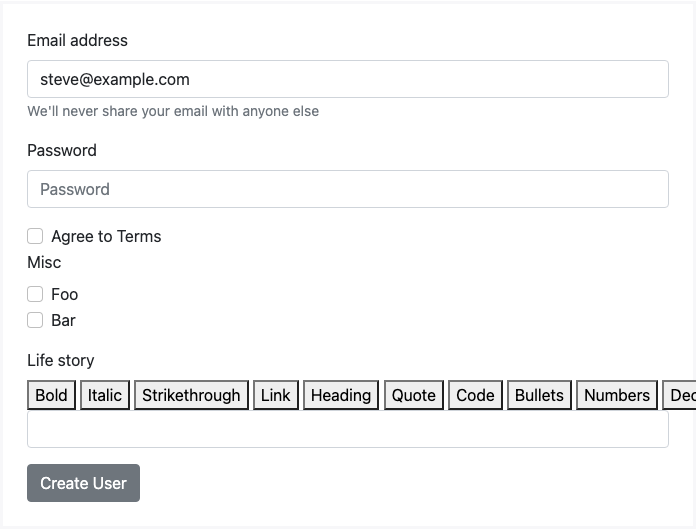
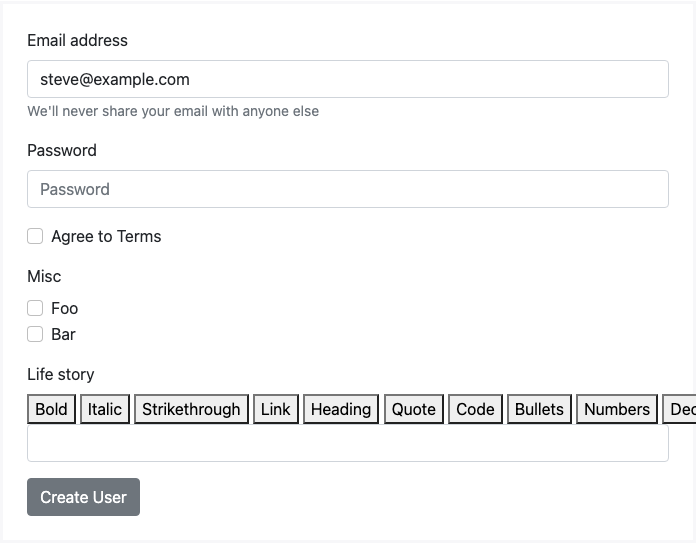
Add margin below check boxes in the vertical layout

diff --git a/test/bootstrap_checkbox_test.rb b/test/bootstrap_checkbox_test.rb
@@ -7,7 +7,7 @@ class BootstrapCheckboxTest < ActionView::TestCase
 
   test "check_box is wrapped correctly" do
     expected = <<~HTML
-      <div class="form-check">
+      <div class="form-check mb-3">
         <input #{autocomplete_attr} name="user[terms]" type="hidden" value="0" />
         <input class="form-check-input" id="user_terms" name="user[terms]" type="checkbox" value="1" />
         <label class="form-check-label" for="user_terms">
@@ -20,7 +20,7 @@ class BootstrapCheckboxTest < ActionView::TestCase
 
   test "check_box empty label" do
     expected = <<~HTML
-      <div class="form-check">
+      <div class="form-check mb-3">
         <input #{autocomplete_attr} name="user[terms]" type="hidden" value="0" />
         <input class="form-check-input" id="user_terms" name="user[terms]" type="checkbox" value="1" />
         <label class="form-check-label" for="user_terms">&#8203;</label>
@@ -32,7 +32,7 @@ class BootstrapCheckboxTest < ActionView::TestCase
 
   test "disabled check_box has proper wrapper classes" do
     expected = <<~HTML
-      <div class="form-check">
+      <div class="form-check mb-3">
         <input #{autocomplete_attr} name="user[terms]" type="hidden" value="0" disabled="disabled" />
         <input class="form-check-input" id="user_terms" name="user[terms]" type="checkbox" value="1" disabled="disabled" />
         <label class="form-check-label" for="user_terms">
@@ -45,7 +45,7 @@ class BootstrapCheckboxTest < ActionView::TestCase
 
   test "check_box label allows html" do
     expected = <<~HTML
-      <div class="form-check">
+      <div class="form-check mb-3">
         <input #{autocomplete_attr} name="user[terms]" type="hidden" value="0" />
         <input class="form-check-input" id="user_terms" name="user[terms]" type="checkbox" value="1" />
         <label class="form-check-label" for="user_terms">
@@ -58,7 +58,7 @@ class BootstrapCheckboxTest < ActionView::TestCase
 
   test "check_box accepts a block to define the label" do
     expected = <<~HTML
-      <div class="form-check">
+      <div class="form-check mb-3">
         <input #{autocomplete_attr} name="user[terms]" type="hidden" value="0" />
         <input class="form-check-input" id="user_terms" name="user[terms]" type="checkbox" value="1" />
         <label class="form-check-label" for="user_terms">
@@ -71,7 +71,7 @@ class BootstrapCheckboxTest < ActionView::TestCase
 
   test "check_box accepts a custom label class" do
     expected = <<~HTML
-      <div class="form-check">
+      <div class="form-check mb-3">
         <input #{autocomplete_attr} name="user[terms]" type="hidden" value="0" />
         <input class="form-check-input" id="user_terms" name="user[terms]" type="checkbox" value="1" />
         <label class="form-check-label btn" for="user_terms">
@@ -84,7 +84,7 @@ class BootstrapCheckboxTest < ActionView::TestCase
 
   test "check_box 'id' attribute is used to specify label 'for' attribute" do
     expected = <<~HTML
-      <div class="form-check">
+      <div class="form-check mb-3">
         <input #{autocomplete_attr} name="user[terms]" type="hidden" value="0" />
         <input class="form-check-input" id="custom_id" name="user[terms]" type="checkbox" value="1" />
         <label class="form-check-label" for="custom_id">
@@ -97,7 +97,7 @@ class BootstrapCheckboxTest < ActionView::TestCase
 
   test "check_box responds to checked_value and unchecked_value arguments" do
     expected = <<~HTML
-      <div class="form-check">
+      <div class="form-check mb-3">
         <input #{autocomplete_attr} name="user[terms]" type="hidden" value="no" />
         <input class="form-check-input" id="user_terms" name="user[terms]" type="checkbox" value="yes" />
         <label class="form-check-label" for="user_terms">
@@ -110,7 +110,7 @@ class BootstrapCheckboxTest < ActionView::TestCase
 
   test "inline checkboxes" do
     expected = <<~HTML
-      <div class="form-check form-check-inline">
+      <div class="form-check form-check-inline mb-3">
         <input #{autocomplete_attr} name="user[terms]" type="hidden" value="0" />
         <input class="form-check-input" id="user_terms" name="user[terms]" type="checkbox" value="1" />
         <label class="form-check-label" for="user_terms">
@@ -125,7 +125,7 @@ class BootstrapCheckboxTest < ActionView::TestCase
     expected = <<~HTML
       <form accept-charset="UTF-8" action="/users" class="new_user col-auto g-3" id="new_user" method="post">
       #{'<input name="utf8" type="hidden" value="&#x2713;"/>' unless ::Rails::VERSION::STRING >= '6'}
-        <div class="form-check form-check-inline">
+        <div class="form-check form-check-inline mb-3">
           <input #{autocomplete_attr} name="user[terms]" type="hidden" value="0" />
           <input class="form-check-input" id="user_terms" name="user[terms]" type="checkbox" value="1" />
           <label class="form-check-label" for="user_terms">
@@ -142,7 +142,7 @@ class BootstrapCheckboxTest < ActionView::TestCase
 
   test "disabled inline check_box" do
     expected = <<~HTML
-      <div class="form-check form-check-inline">
+      <div class="form-check form-check-inline mb-3">
         <input #{autocomplete_attr} name="user[terms]" type="hidden" value="0" disabled="disabled" />
         <input class="form-check-input" id="user_terms" name="user[terms]" type="checkbox" value="1" disabled="disabled" />
         <label class="form-check-label" for="user_terms">
@@ -156,7 +156,7 @@ class BootstrapCheckboxTest < ActionView::TestCase
 
   test "inline checkboxes with custom label class" do
     expected = <<~HTML
-      <div class="form-check form-check-inline">
+      <div class="form-check form-check-inline mb-3">
         <input #{autocomplete_attr} name="user[terms]" type="hidden" value="0" />
         <input class="form-check-input" id="user_terms" name="user[terms]" type="checkbox" value="1" />
         <label class="form-check-label btn" for="user_terms">
@@ -498,7 +498,7 @@ class BootstrapCheckboxTest < ActionView::TestCase
 
   test "check_box skip label" do
     expected = <<~HTML
-      <div class="form-check">
+      <div class="form-check mb-3">
         <input #{autocomplete_attr} name="user[terms]" type="hidden" value="0" />
         <input class="form-check-input position-static" id="user_terms" name="user[terms]" type="checkbox" value="1" />
       </div>
@@ -508,7 +508,7 @@ class BootstrapCheckboxTest < ActionView::TestCase
 
   test "check_box hide label" do
     expected = <<~HTML
-      <div class="form-check">
+      <div class="form-check mb-3">
         <input #{autocomplete_attr} name="user[terms]" type="hidden" value="0" />
         <input class="form-check-input position-static" id="user_terms" name="user[terms]" type="checkbox" value="1" />
         <label class="form-check-label visually-hidden" for="user_terms">I agree to the terms</label>
@@ -580,7 +580,7 @@ class BootstrapCheckboxTest < ActionView::TestCase
     expected = <<~HTML
       <form accept-charset="UTF-8" action="/users" class="new_user" id="new_user" method="post">
         #{'<input name="utf8" type="hidden" value="&#x2713;"/>' unless ::Rails::VERSION::STRING >= '6'}
-        <div class="form-check">
+        <div class="form-check mb-3">
           <input #{autocomplete_attr} name="user[terms]" type="hidden" value="0" />
           <input class="form-check-input is-invalid" id="user_terms" name="user[terms]" type="checkbox" value="1" />
           <label class="form-check-label" for="user_terms">
@@ -598,7 +598,7 @@ class BootstrapCheckboxTest < ActionView::TestCase
 
   test "check box with custom wrapper class" do
     expected = <<~HTML
-      <div class="form-check custom-class">
+      <div class="form-check mb-3 custom-class">
         <input #{autocomplete_attr} name="user[terms]" type="hidden" value="0" />
         <input class="form-check-input" id="user_terms" name="user[terms]" type="checkbox" value="1" />
         <label class="form-check-label" for="user_terms">
@@ -611,7 +611,7 @@ class BootstrapCheckboxTest < ActionView::TestCase
 
   test "inline check box with custom wrapper class" do
     expected = <<~HTML
-      <div class="form-check form-check-inline custom-class">
+      <div class="form-check form-check-inline mb-3 custom-class">
         <input #{autocomplete_attr} name="user[terms]" type="hidden" value="0" />
         <input class="form-check-input" id="user_terms" name="user[terms]" type="checkbox" value="1" />
         <label class="form-check-label" for="user_terms">

diff --git a/test/bootstrap_form_test.rb b/test/bootstrap_form_test.rb
@@ -24,7 +24,7 @@ class BootstrapFormTest < ActionView::TestCase
             <input class="form-control" id="user_email" name="user[email]" type="email" value="steve@example.com" />
           </div>
         </div>
-        <div class="form-check">
+        <div class="form-check mb-3">
           <input #{autocomplete_attr} name="user[terms]" type="hidden" value="0" />
           <input class="form-check-input" id="user_terms" name="user[terms]" type="checkbox" value="1" />
           <label class="form-check-label" for="user_terms">I agree to the terms</label>
@@ -74,7 +74,7 @@ class BootstrapFormTest < ActionView::TestCase
           <label class="form-label mr-sm-2 required" for="user_email">Email</label>
           <input class="form-control" id="user_email" name="user[email]" type="email" value="steve@example.com" />
         </div>
-        <div class="form-check form-check-inline">
+        <div class="form-check form-check-inline mb-3">
           <input #{autocomplete_attr} name="user[terms]" type="hidden" value="0" />
           <input class="form-check-input" id="user_terms" name="user[terms]" type="checkbox" value="1" />
           <label class="form-check-label" for="user_terms">I agree to the terms</label>
@@ -136,7 +136,7 @@ class BootstrapFormTest < ActionView::TestCase
           <label class="form-label mr-sm-2 required" for="user_email">Email</label>
           <input class="form-control" id="user_email" name="user[email]" type="email" value="steve@example.com" />
         </div>
-        <div class="form-check form-check-inline">
+        <div class="form-check form-check-inline mb-3">
           <input #{autocomplete_attr} name="user[terms]" type="hidden" value="0" />
           <input class="form-check-input" id="user_terms" name="user[terms]" type="checkbox" value="1" />
           <label class="form-check-label" for="user_terms">I agree to the terms</label>
@@ -412,7 +412,7 @@ class BootstrapFormTest < ActionView::TestCase
     expected = <<~HTML
       <form accept-charset="UTF-8" action="/users" method="post">
         #{'<input name="utf8" type="hidden" value="&#x2713;"/>' unless ::Rails::VERSION::STRING >= '6'}
-        <div class="form-check">
+        <div class="form-check mb-3">
           <input class="form-check-input" id="#{id}" name="#{name}" type="checkbox" value="1" />
           <input #{autocomplete_attr} name="#{name}" type="hidden" value="0" />
           <label class="form-check-label" for="#{id}"> Misc</label>

diff --git a/test/bootstrap_fields_test.rb b/test/bootstrap_fields_test.rb
@@ -260,7 +260,7 @@ class BootstrapFieldsTest < ActionView::TestCase
 
   test "check_box fields are wrapped correctly" do
     expected = <<~HTML
-      <div class="form-check">
+      <div class="form-check mb-3">
         <input #{autocomplete_attr} name="user[misc]" type="hidden" value="0"/>
         <input class="form-check-input" id="user_misc" name="user[misc]" type="checkbox" value="1"/>
         <label class="form-check-label" for="user_misc">Misc</label>
@@ -271,7 +271,7 @@ class BootstrapFieldsTest < ActionView::TestCase
 
   test "switch-style check_box fields are wrapped correctly" do
     expected = <<~HTML
-      <div class="form-check form-switch">
+      <div class="form-check mb-3 form-switch">
         <input #{autocomplete_attr} name="user[misc]" type="hidden" value="0"/>
         <input class="form-check-input" id="user_misc" name="user[misc]" type="checkbox" value="1"/>
         <label class="form-check-label" for="user_misc">Misc</label>

diff --git a/lib/bootstrap_form/inputs/check_box.rb b/lib/bootstrap_form/inputs/check_box.rb
@@ -66,6 +66,7 @@ module BootstrapForm
       def check_box_wrapper_class(options)
         classes = ["form-check"]
         classes << "form-check-inline" if layout_inline?(options[:inline])
+        classes << "mb-3" unless options[:multiple] || layout == :horizontal
         classes << "form-switch" if options[:switch]
         classes << options[:wrapper_class] if options[:wrapper_class].present?
         classes.flatten.compact

diff --git a/README.md b/README.md
@@ -92,7 +92,7 @@ This generates the following HTML:
     <label class="form-label" for="user_password">Password</label>
     <input class="form-control" id="user_password" name="user[password]" type="password">
   </div>
-  <div class="form-check">
+  <div class="form-check mb-3">
     <input autocomplete="off" name="user[remember_me]" type="hidden" value="0">
     <input class="form-check-input" id="user_remember_me" name="user[remember_me]" type="checkbox" value="1">
     <label class="form-check-label" for="user_remember_me">Remember me</label>
@@ -154,7 +154,7 @@ This generates:
     <input class="form-control" id="user_password" name="user[password]" type="password">
     <small class="form-text text-muted">A good password should be at least six characters long</small>
   </div>
-  <div class="form-check">
+  <div class="form-check mb-3">
     <input autocomplete="off" name="user[remember_me]" type="hidden" value="0">
     <input class="form-check-input" id="user_remember_me" name="user[remember_me]" type="checkbox" value="1">
     <label class="form-check-label" for="user_remember_me">Remember me</label>
@@ -571,7 +571,7 @@ This generates:
   <small class="form-text text-muted">Optional Help Text</small>
 </div>
 <div class="mb-3">
-  <div class="form-check">
+  <div class="form-check mb-3">
     <input autocomplete="off" name="user[terms]" type="hidden" value="0">
     <input class="form-check-input" id="user_terms" name="user[terms]" type="checkbox" value="1">
     <label class="form-check-label" for="user_terms">I agree to the Terms of Service</label>
@@ -595,7 +595,7 @@ This generates:
 ```html
 <div class="mb-3">
   <label class="form-label" for="user_terms">Optional Label</label>
-  <div class="form-check">
+  <div class="form-check mb-3">
     <input autocomplete="off" name="user[terms]" type="hidden" value="0">
     <input class="form-check-input" id="user_terms" name="user[terms]" type="checkbox" value="1">
     <label class="form-check-label" for="user_terms">
@@ -664,7 +664,7 @@ To render checkboxes as switches with Bootstrap 4.2+, use `switch: true`:
 This generates:
 
 ```html
-<div class="form-check form-switch">
+<div class="form-check mb-3 form-switch">
   <input autocomplete="off" name="user[remember_me]" type="hidden" value="0">
   <input class="form-check-input" id="user_remember_me" name="user[remember_me]" type="checkbox" value="1">
   <label class="form-check-label" for="user_remember_me">Remember me</label>
@@ -972,7 +972,7 @@ This generates:
     <label class="form-label visually-hidden mr-sm-2" for="user_password">Password</label>
     <input class="form-control" id="user_password" name="user[password]" type="password">
   </div>
-  <div class="form-check form-check-inline">
+  <div class="form-check form-check-inline mb-3">
     <input autocomplete="off" name="user[remember_me]" type="hidden" value="0">
     <input class="form-check-input" id="user_remember_me" name="user[remember_me]" type="checkbox" value="1">
     <label class="form-check-label" for="user_remember_me">Remember me</label>
@@ -1217,7 +1217,7 @@ This generates:
     <label class="form-label" for="user_password">Password</label>
     <input class="form-control" id="user_password" name="user[password]" type="password">
   </div>
-  <div class="form-check">
+  <div class="form-check mb-3">
     <input autocomplete="off" name="user[remember_me]" type="hidden" value="0">
     <input class="form-check-input" custom="true" id="user_remember_me" name="user[remember_me]" type="checkbox" value="1">
     <label class="form-check-label" for="user_remember_me">Remember me</label>
